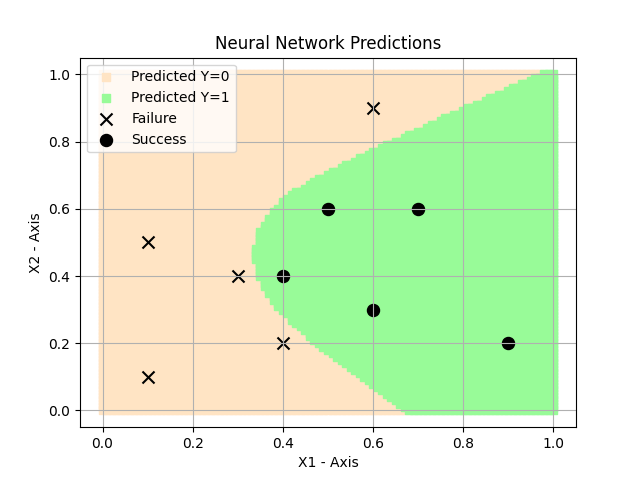
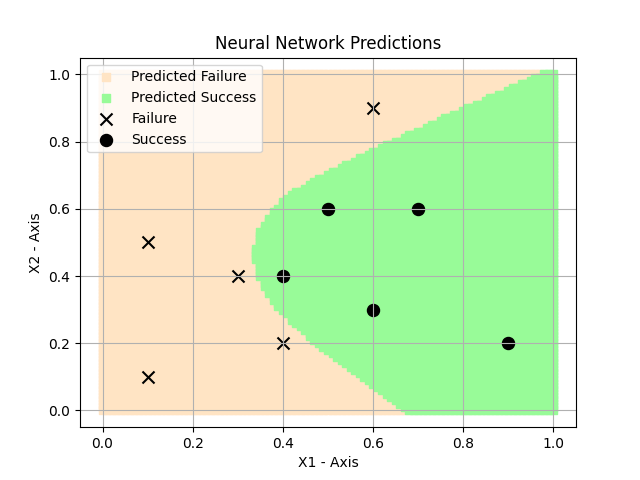
Fixed image
Error in image legend was fixed

Changed region(s): [[0.3125, 0.125, 0.4375, 0.3438]]

diff --git a/Neural Network Library/Projects/SIAM 2019/Predicted_Regions.py b/Neural Network Library/Projects/SIAM 2019/Predicted_Regions.py
@@ -45,10 +45,10 @@ x_y0 = x[y[:, 0] == 1]
 x_y1 = x[y[:, 1] == 1]
 
 # Create a scatterplot for Y=0 points
-plt.scatter(x_y0[:, 0], x_y0[:, 1], c='bisque', label='Predicted Y=0', marker='s')
+plt.scatter(x_y0[:, 0], x_y0[:, 1], c='bisque', label='Predicted Failure', marker='s')
 
 # Create a scatterplot for Y=1 points
-plt.scatter(x_y1[:, 0], x_y1[:, 1], c='palegreen', label='Predicted Y=1', marker='s')
+plt.scatter(x_y1[:, 0], x_y1[:, 1], c='palegreen', label='Predicted Success', marker='s')
 
 # Compute and plot the convex hull around Y=1 points with a filled interior
 hull = ConvexHull(x_y1)
@@ -65,7 +65,7 @@ plt.scatter(x2[:, 0], x2[:, 1], color = 'black', label='Success', marker='o', s=
 plt.xlabel('X1 - Axis')
 plt.ylabel('X2 - Axis')
 plt.title('Neural Network Predictions')
-plt.legend()
+plt.legend(loc=2)
 plt.grid(True)
 plt.show()
 
